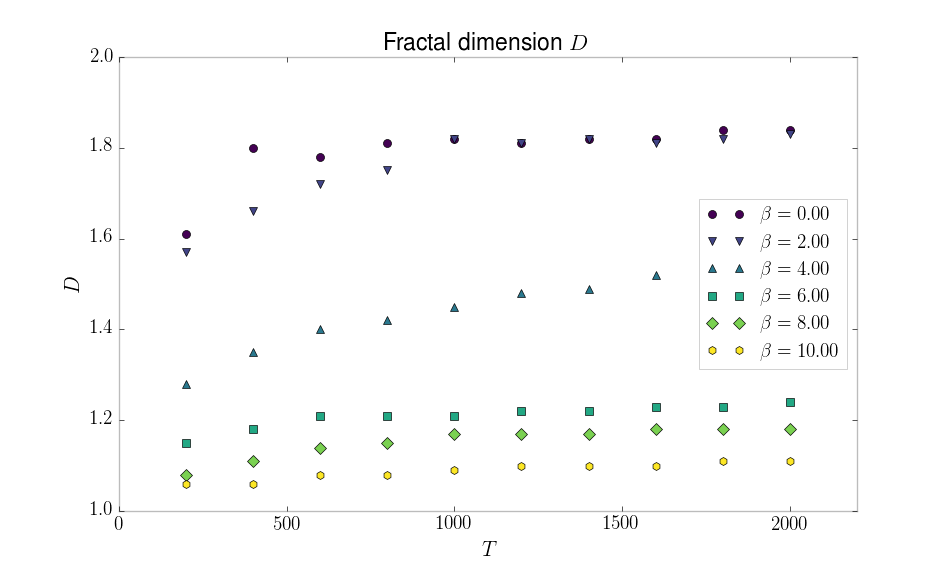
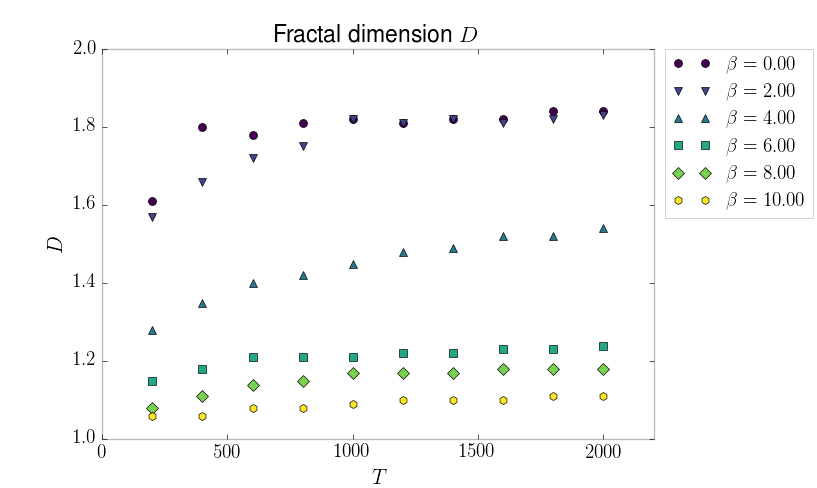
fractal_dim_from_mass: Modified

diff --git a/triangular_lattice/fractal_dim_from_mass.py b/triangular_lattice/fractal_dim_from_mass.py
@@ -29,7 +29,7 @@ def _plot_data_for_validation(paths, raw=False):
             beta, num_of_strings, N_r, frames, r, M = load_data(path)
             ax.loglog(r, M, '.',
                       label=r'$\beta = %2.2f$, $T = %d$' % (beta, frames))
-        ax.set_title('Mass in the circle of radius $r$')
+        ax.set_title(r'Mass in the circle of radius $r$')
         ax.set_ylabel(r'Mass in the circle of radius')
     else:  # Plot averaged data
         for path in paths:
@@ -37,7 +37,7 @@ def _plot_data_for_validation(paths, raw=False):
             r, M = averaging_data(r, M, N_r, scale='log')
             ax.loglog(r, M, '.',
                       label=r'$\beta = %2.2f$, $T = %d$' % (beta, frames))
-        ax.set_title('Averaged mass in the circle of radius $r$')
+        ax.set_title(r'Averaged mass in the circle of radius $r$')
         ax.set_ylabel(r'Averaged mass in the circle of radius')
     ax.legend(loc='best')
     ax.set_aspect('equal')
@@ -77,7 +77,7 @@ def get_fractal_dim(path):
     ax.set_ylabel(r'Averaged mass in the circle of radius')
 
     def onselect(vmin, vmax):
-        global result, selected_index, ln, text
+        global result, selected_index, ln, text, D
         if globals().has_key('ln') and ln:
             ln.remove()
             text.remove()
@@ -114,6 +114,7 @@ def get_fractal_dim(path):
     span = SpanSelector(ax, onselect, direction='horizontal')
     fig.canvas.mpl_connect('key_press_event', press)
     plt.show()
+    return D
 
 def get_paths(fix=None, beta_num=0, frame_num=0, ver=1):
     """get specific condtion datas
@@ -276,10 +277,10 @@ def get_paths(fix=None, beta_num=0, frame_num=0, ver=1):
 
 
 if __name__ == '__main__':
-    ## frame = [200, 400, 600, 800, 1000, 1200, 1400, 1600, 1800, 2000]
-    ##          0    1    2    3    4     5     6     7     8     9
-    ## beta = [0, 2, 4, 6, 8, 10]
-    ##         0  1  2  3  4  5
+    frames_list = [200, 400, 600, 800, 1000, 1200, 1400, 1600, 1800, 2000]
+    ##             0    1    2    3    4     5     6     7     8     9
+    beta_list = [0, 2, 4, 6, 8, 10]
+    ##           0  1  2  3  4  5
 
     # result_data_paths = get_paths(beta_num=5, frame_num=9)
     # result_data_paths = get_paths(fix='frames', frame_num=7, ver=0)

diff --git a/triangular_lattice/fractal_dim_from_mass2.py b/triangular_lattice/fractal_dim_from_mass2.py
@@ -40,24 +40,25 @@ if __name__ == '__main__':
     beta_list = [0, 2, 4, 6, 8, 10]
     ##           0  1  2  3  4  5
 
-    # Ds = read_from_csv('./results/img/mass_in_r/data_170122.csv').T
-    Ds = manual_data()
-    print Ds
+    Ds = read_from_csv('./results/img/mass_in_r/data_170122.csv').T
+    # Ds = manual_data()
 
-    # markers = ['o', 'v', '^', 's', 'D', 'h']
+    markers = ['o', 'v', '^', 's', 'D', 'h']
 
-    # fig, ax = plt.subplots()
-    # for i, beta in enumerate(beta_list):
-    #     color = cm.viridis(float(i) / (len(beta_list) - 1))
-    #     ax.plot(frames_list, Ds[i], marker=markers[i % len(markers)],
-    #             ls='', color=color, label=r'$\beta = %2.2f$' % beta)
+    fig, ax = plt.subplots()
+    for i, beta in enumerate(beta_list):
+        color = cm.viridis(float(i) / (len(beta_list) - 1))
+        ax.plot(frames_list, Ds[i], marker=markers[i % len(markers)],
+                ls='', color=color, label=r'$\beta = %2.2f$' % beta)
     # ax.legend(loc='best')
-    # ax.set_title(r'Fractal dimension $D$')
-    # ax.set_xlabel(r'$T$')
-    # ax.set_ylabel(r'$D$')
-    # ax.set_xlim(0, 2200)
-    # ax.set_ylim(1., 2.)
-    # plt.show()
+    ax.legend(bbox_to_anchor=(1.02, 1), loc='upper left', borderaxespad=0)
+    fig.subplots_adjust(right=0.8)
+    ax.set_title(r'Fractal dimension $D$')
+    ax.set_xlabel(r'$T$')
+    ax.set_ylabel(r'$D$')
+    ax.set_xlim(0, 2200)
+    ax.set_ylim(1., 2.)
+    plt.show()
 
 
 
